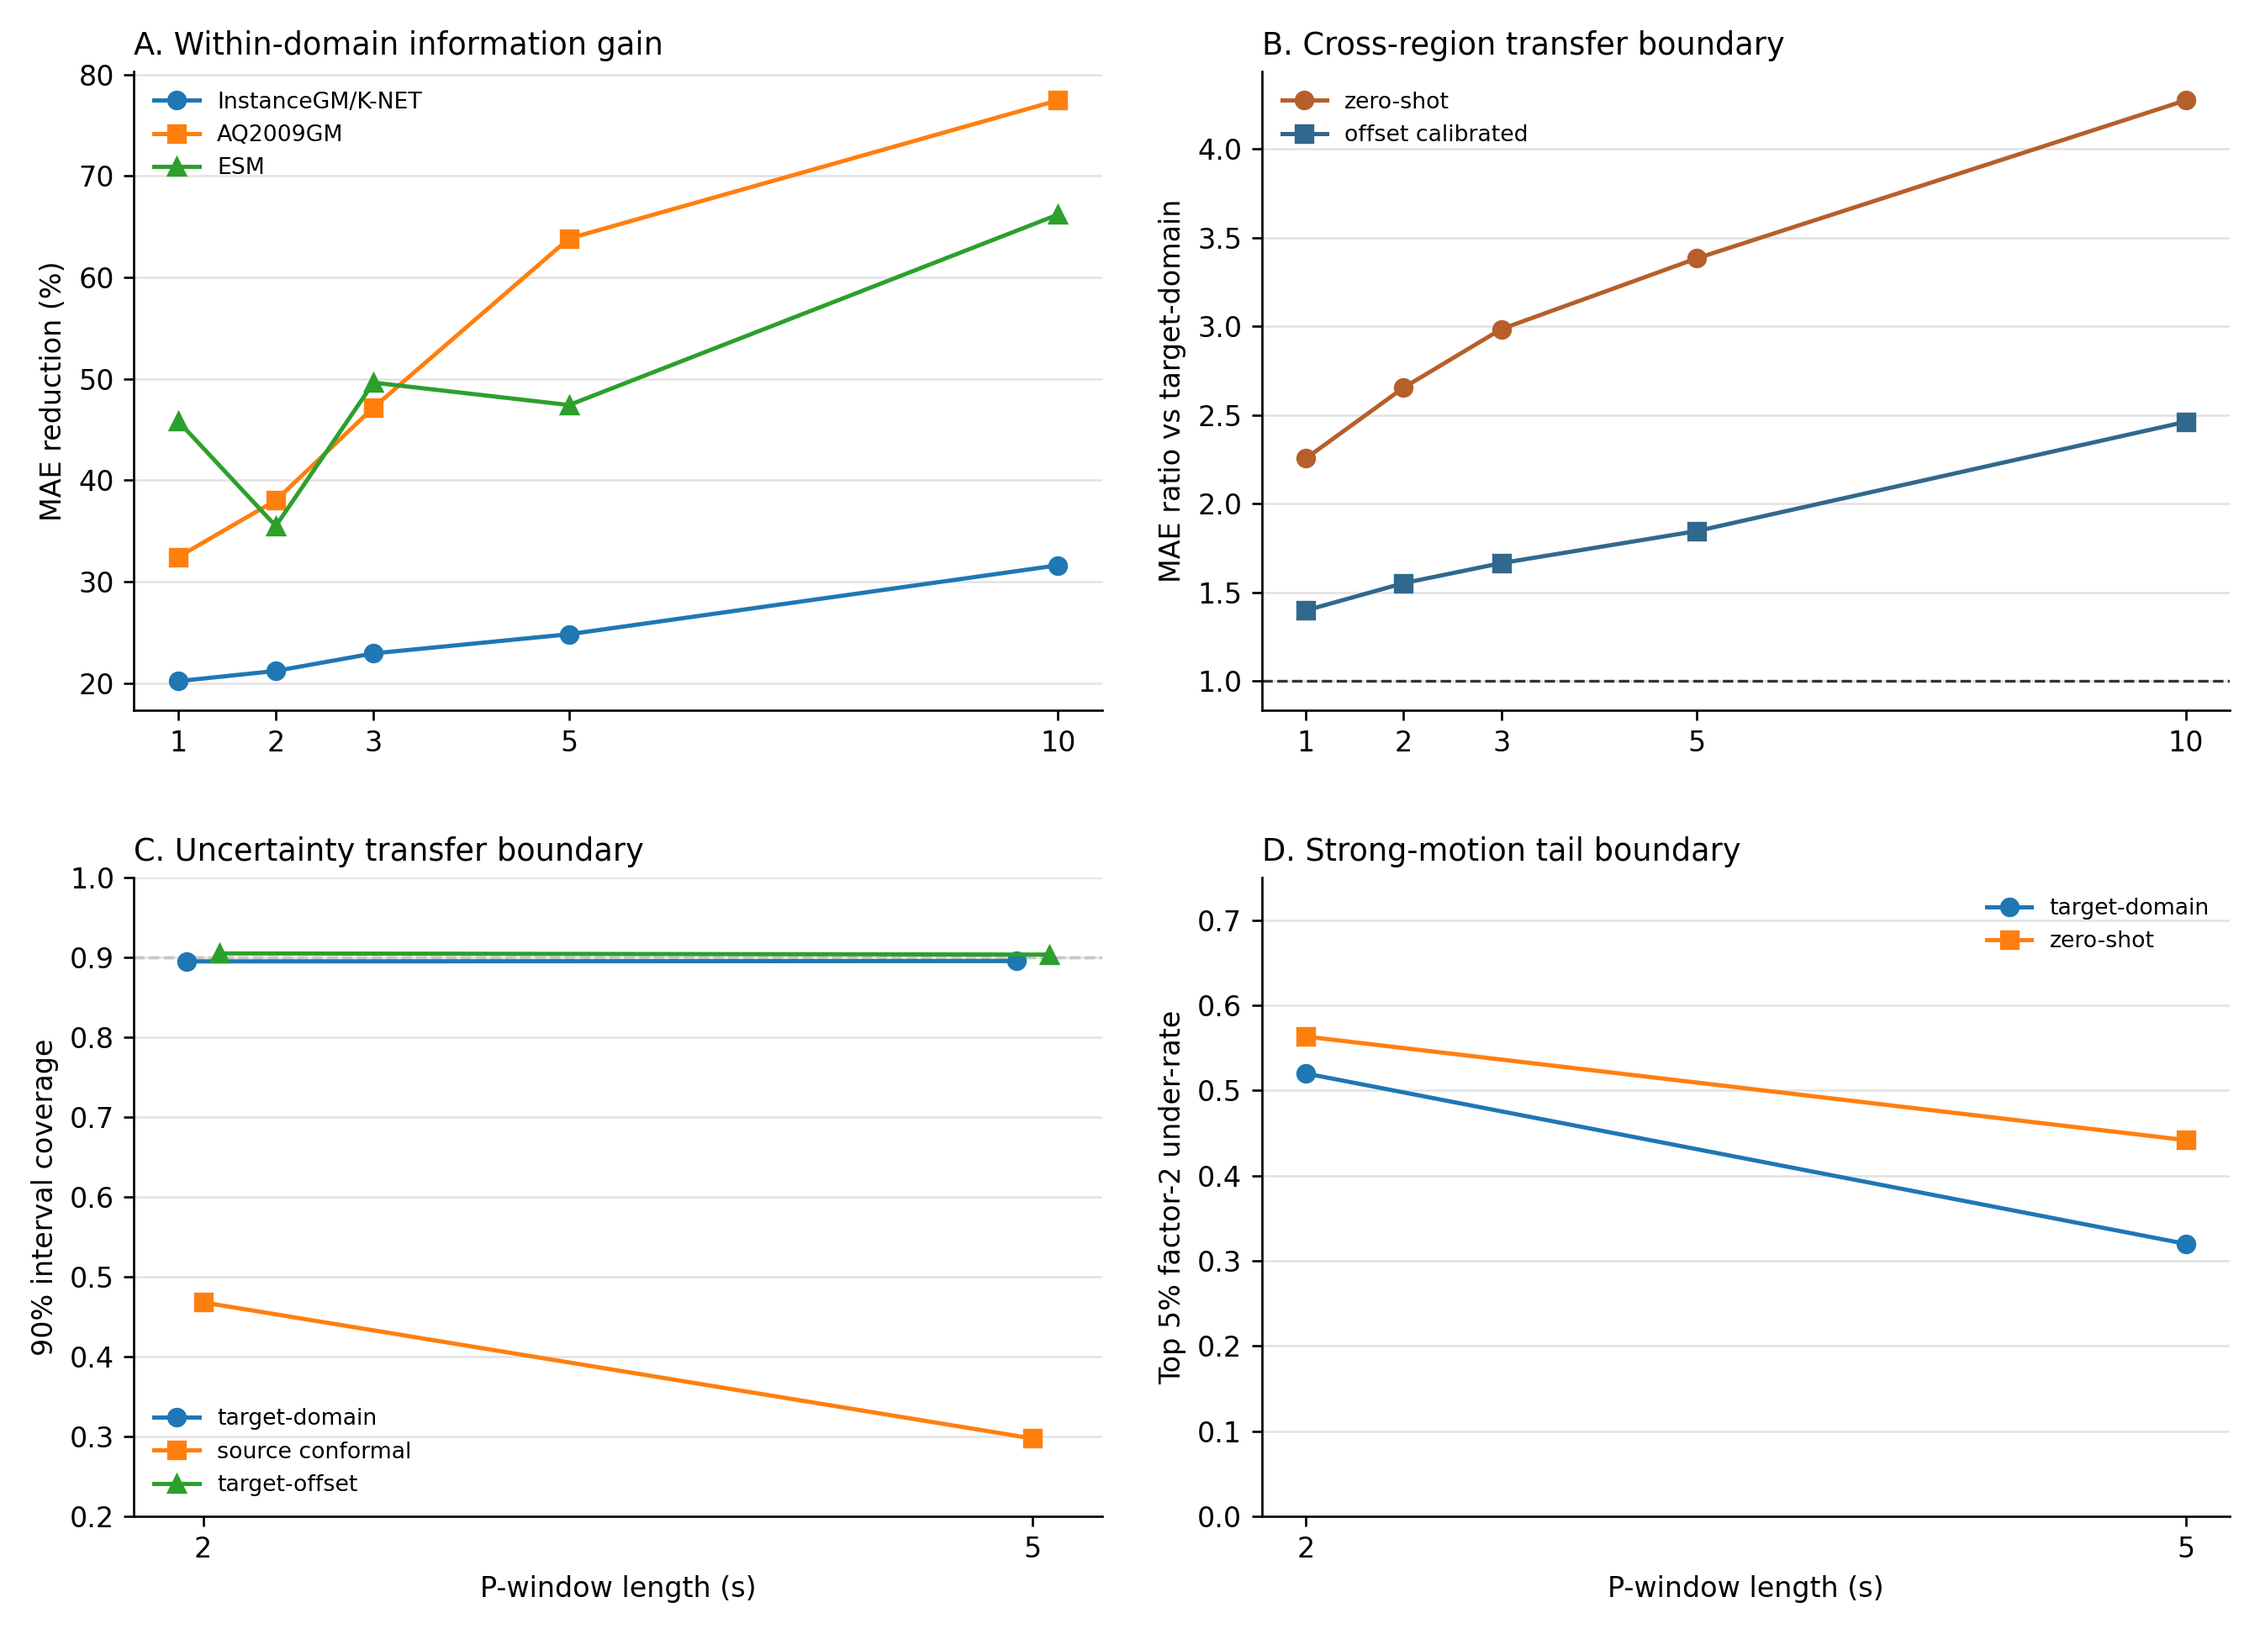
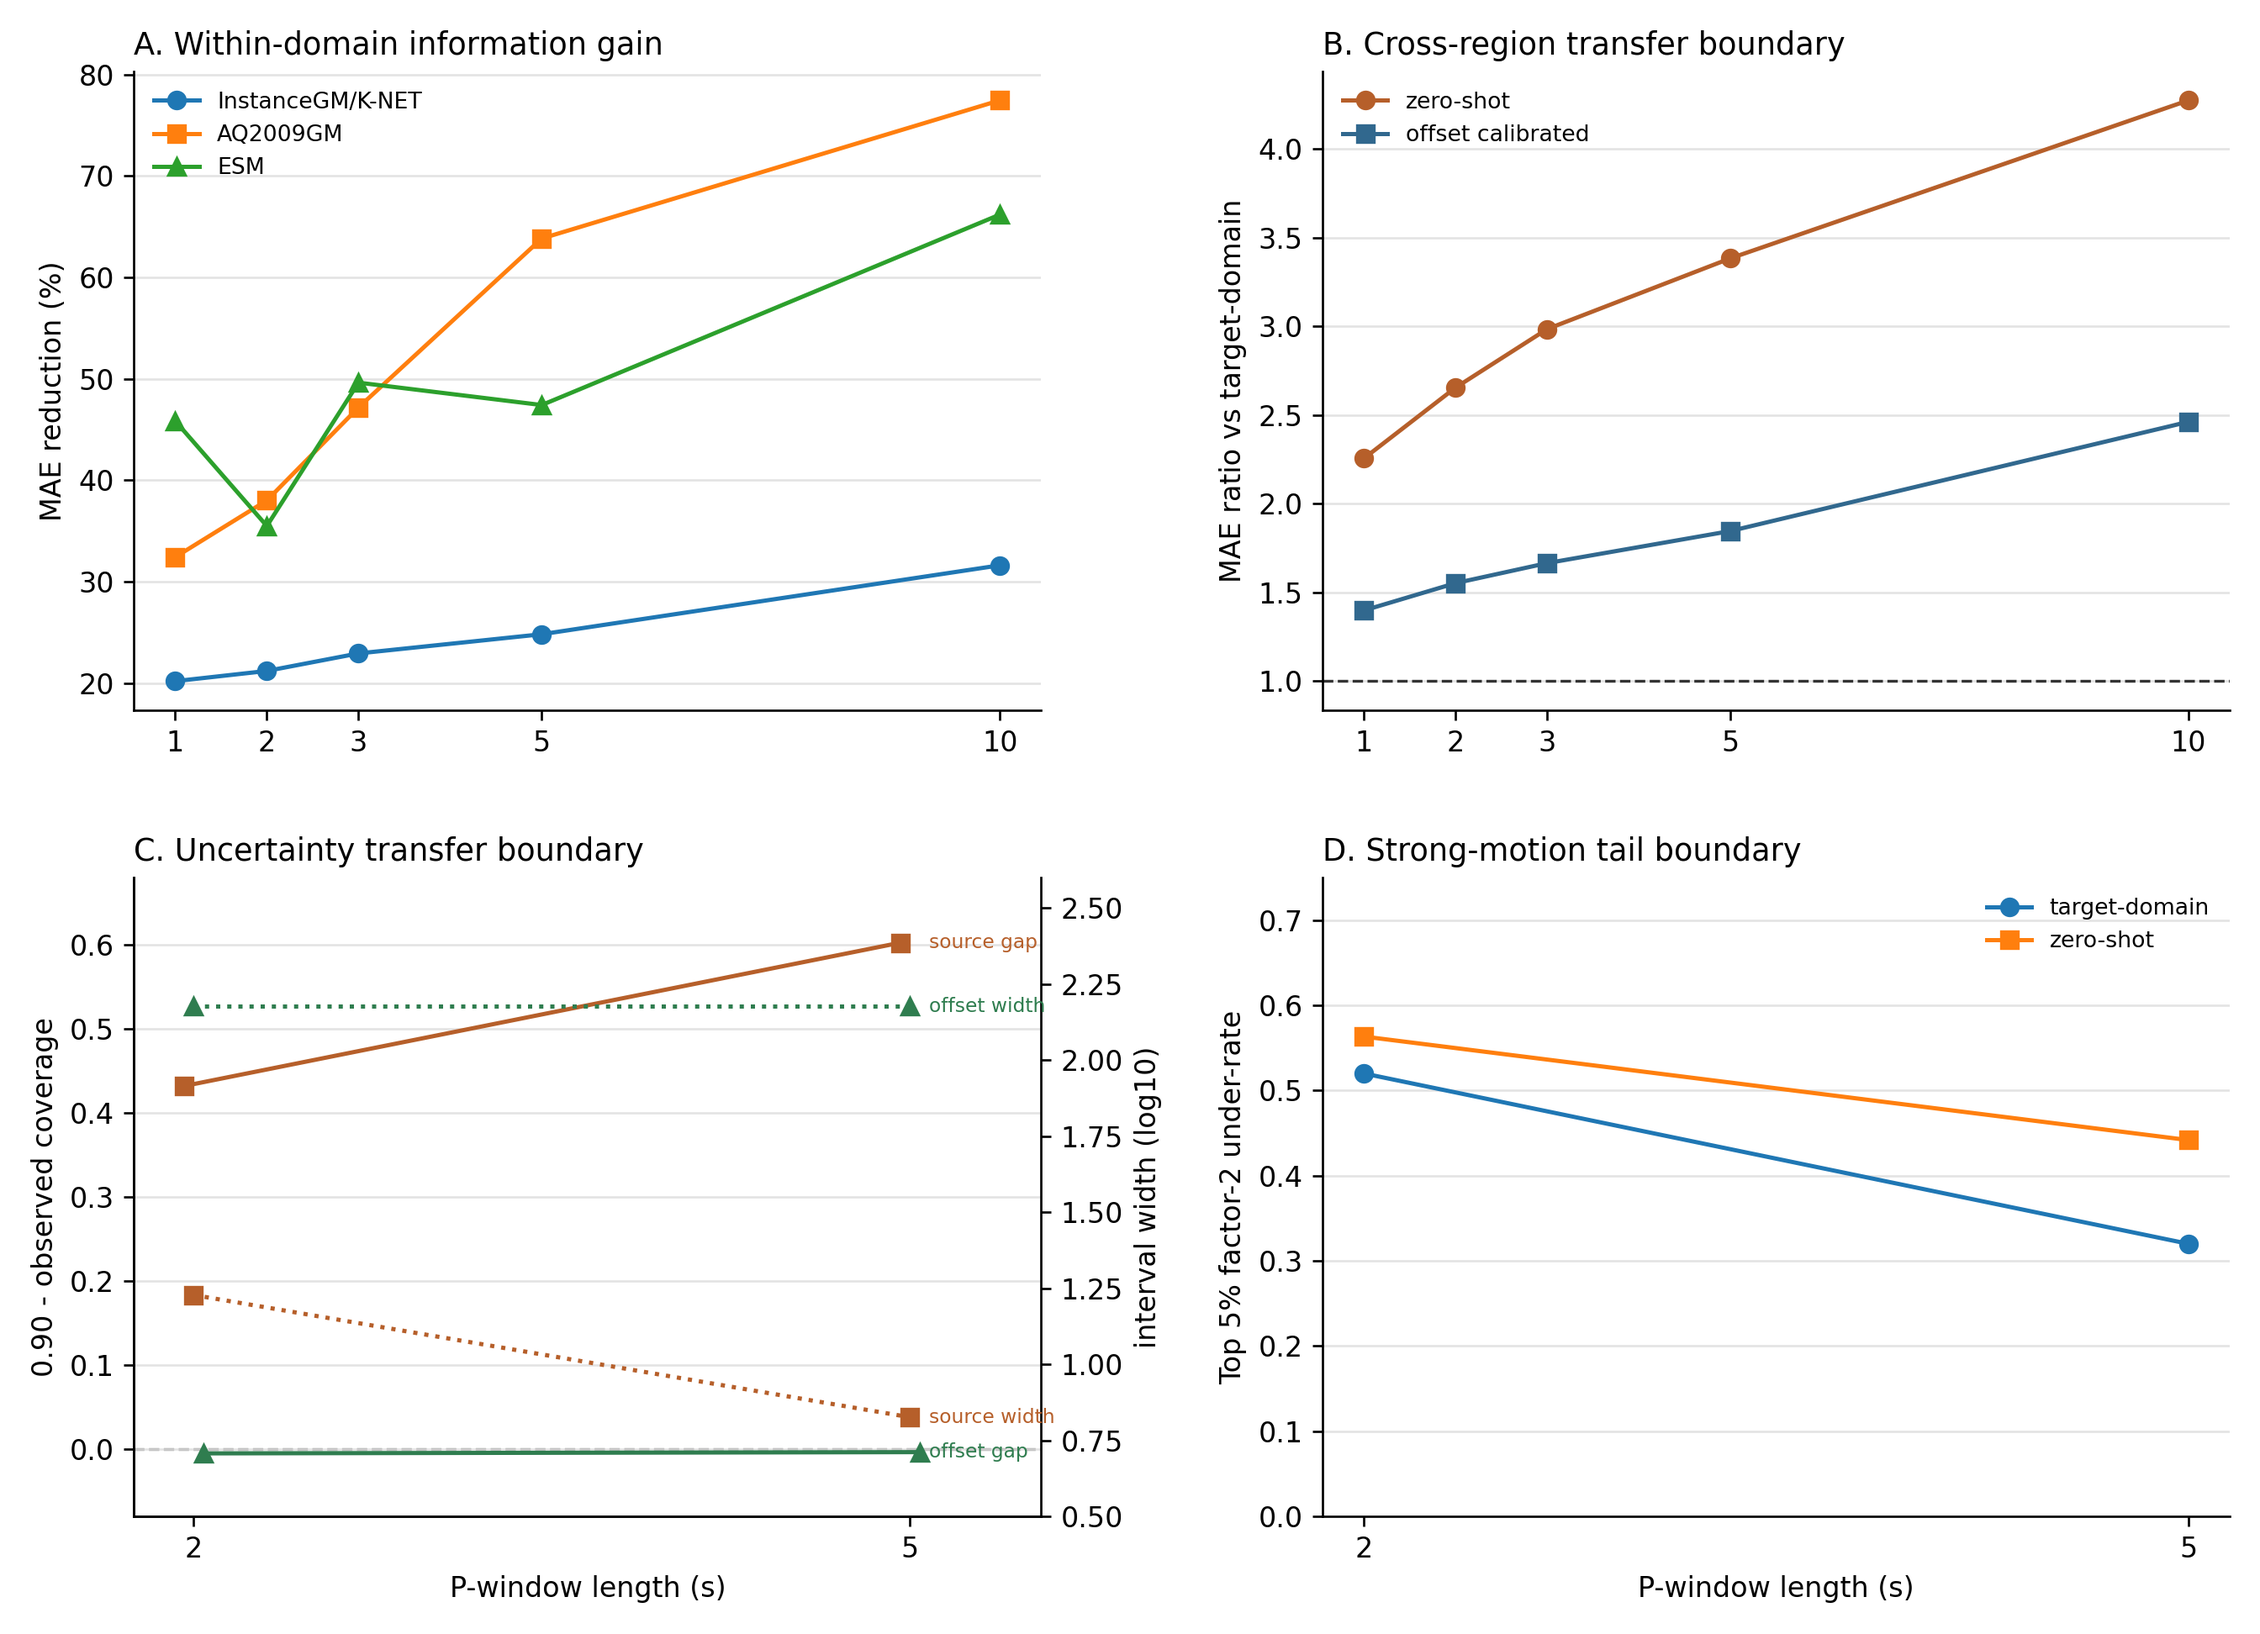
Clarify NC uncertainty boundary panel

diff --git a/work/scripts/build_nc_core_boundary_figure.py b/work/scripts/build_nc_core_boundary_figure.py
@@ -43,6 +43,11 @@ def main() -> None:
     assert table["zero_shot_transfer_ratio"].is_monotonic_increasing
     assert table["offset_transfer_ratio"].is_monotonic_increasing
     assert table.loc[table["window_s"].eq(5), "zero_shot_conformal_coverage"].iloc[0] < 0.4
+    assert table.loc[table["window_s"].eq(2), "zero_shot_coverage_gap_to_90"].iloc[0] > 0.4
+    assert table.loc[table["window_s"].eq(5), "zero_shot_coverage_gap_to_90"].iloc[0] > 0.5
+    assert table.loc[table["window_s"].eq(5), "target_offset_interval_width"].iloc[0] > table.loc[
+        table["window_s"].eq(5), "zero_shot_interval_width"
+    ].iloc[0]
     assert (
         table.loc[table["window_s"].eq(5), "target_domain_top5_under_factor2_rate"].iloc[0]
         < table.loc[table["window_s"].eq(2), "target_domain_top5_under_factor2_rate"].iloc[0]
@@ -110,7 +115,8 @@ def transfer_penalty() -> pd.DataFrame:
 
 def conformal_boundary() -> pd.DataFrame:
     df = pd.read_csv("work/nc_boundary_sensitivity/conformal_boundary.csv")
-    cov = df.groupby(["early_seconds", "mode"])["coverage90"].median().unstack()
+    grouped = df.groupby(["early_seconds", "mode"])
+    cov = grouped["coverage90"].median().unstack()
     cov = cov.rename(
         columns={
             "target_domain": "target_domain_conformal_coverage",
@@ -118,8 +124,19 @@ def conformal_boundary() -> pd.DataFrame:
             "target_offset_conformal": "target_offset_conformal_coverage",
         }
     )
-    cov.index = cov.index.astype(int)
-    return cov.reset_index(names="window_s")
+    width = grouped["interval_width_log10"].median().unstack()
+    width = width.rename(
+        columns={
+            "target_domain": "target_domain_interval_width",
+            "zero_shot_source_conformal": "zero_shot_interval_width",
+            "target_offset_conformal": "target_offset_interval_width",
+        }
+    )
+    out = cov.join(width)
+    for prefix in ["target_domain", "zero_shot", "target_offset"]:
+        out[f"{prefix}_coverage_gap_to_90"] = 0.9 - out[f"{prefix}_conformal_coverage"]
+    out.index = out.index.astype(int)
+    return out.reset_index(names="window_s")
 
 
 def tail_boundary() -> pd.DataFrame:
@@ -143,16 +160,16 @@ def write_summary(table: pd.DataFrame) -> None:
         "",
         "This file is generated from existing validated outputs. It does not add a new model run.",
         "",
-        "| Window | Main held-station gain % | AQ station gain % | ESM station gain vs median % | Zero-shot transfer ratio | Offset transfer ratio | Source conformal coverage | Target-offset coverage | Target-domain top5 under-rate |",
-        "|---:|---:|---:|---:|---:|---:|---:|---:|---:|",
+        "| Window | Main held-station gain % | AQ station gain % | ESM station gain vs median % | Zero-shot transfer ratio | Offset transfer ratio | Source coverage gap | Target-offset gap | Target-offset width | Target-domain top5 under-rate |",
+        "|---:|---:|---:|---:|---:|---:|---:|---:|---:|---:|",
     ]
     for row in table.itertuples(index=False):
         lines.append(
             f"| {row.window_s}s | {fmt(row.main_held_station_gain_pct, 1)} | "
             f"{fmt(row.aq_station_gain_pct, 1)} | {fmt(row.esm_station_gain_vs_median_pct, 1)} | "
             f"{fmt(row.zero_shot_transfer_ratio, 2)} | {fmt(row.offset_transfer_ratio, 2)} | "
-            f"{fmt(row.zero_shot_conformal_coverage, 3)} | {fmt(row.target_offset_conformal_coverage, 3)} | "
-            f"{fmt(row.target_domain_top5_under_factor2_rate, 3)} |"
+            f"{fmt(row.zero_shot_coverage_gap_to_90, 3)} | {fmt(row.target_offset_coverage_gap_to_90, 3)} | "
+            f"{fmt(row.target_offset_interval_width, 3)} | {fmt(row.target_domain_top5_under_factor2_rate, 3)} |"
         )
     lines.extend(
         [
@@ -160,7 +177,8 @@ def write_summary(table: pd.DataFrame) -> None:
             "Plain-language read:",
             "- Early-window information gain is consistently positive under held-station or held-station-like checks.",
             "- Cross-region transfer penalties grow from 1 s to 10 s, and offset calibration does not remove them.",
-            "- Source-domain conformal intervals under-cover target domains at 2 s and 5 s.",
+            "- Source-domain conformal intervals have large positive coverage gaps at 2 s and 5 s.",
+            "- Target-offset calibration restores near-zero coverage gaps but changes interval width.",
             "- The strongest-shaking tail improves from 2 s to 5 s, but the top-tail underprediction boundary remains visible.",
             "",
             "Files:",
@@ -192,14 +210,23 @@ def draw_figure(table: pd.DataFrame) -> None:
 
     sub = table[table["window_s"].isin([2, 5])]
     x = sub["window_s"].astype(float)
-    ax3.axhline(0.9, color="#333333", linestyle="--", linewidth=1, alpha=0.55, zorder=0)
-    ax3.plot(x - 0.06, sub["target_domain_conformal_coverage"], marker="o", label="target-domain", zorder=3)
-    ax3.plot(x, sub["zero_shot_conformal_coverage"], marker="s", label="source conformal", zorder=3)
-    ax3.plot(x + 0.06, sub["target_offset_conformal_coverage"], marker="^", label="target-offset", zorder=3)
-    ax3.set_ylim(0.2, 1.0)
-    ax3.set_xlim(1.75, 5.25)
-    style_axis(ax3, "C. Uncertainty transfer boundary", "P-window length (s)", "90% interval coverage")
-    ax3.legend(frameon=False, fontsize=8)
+    ax3.axhline(0.0, color="#333333", linestyle="--", linewidth=1, alpha=0.55, zorder=0)
+    ax3.plot(x - 0.04, sub["zero_shot_coverage_gap_to_90"], marker="s", color="#b65f2a", label="source gap", zorder=3)
+    ax3.plot(x + 0.04, sub["target_offset_coverage_gap_to_90"], marker="^", color="#2f7d4f", label="target-offset gap", zorder=3)
+    ax3.set_ylim(-0.08, 0.68)
+    ax3.set_xlim(1.75, 5.55)
+    style_axis(ax3, "C. Uncertainty transfer boundary", "P-window length (s)", "0.90 - observed coverage")
+    ax3b = ax3.twinx()
+    ax3b.plot(x, sub["zero_shot_interval_width"], marker="s", color="#b65f2a", linestyle=":", label="source width")
+    ax3b.plot(x, sub["target_offset_interval_width"], marker="^", color="#2f7d4f", linestyle=":", label="target-offset width")
+    ax3b.set_ylabel("interval width (log10)")
+    ax3b.set_ylim(0.5, 2.6)
+    ax3b.spines["top"].set_visible(False)
+    end = sub[sub["window_s"].eq(5)].iloc[0]
+    ax3.text(5.08, end["zero_shot_coverage_gap_to_90"], "source gap", color="#b65f2a", va="center", fontsize=7)
+    ax3.text(5.08, end["target_offset_coverage_gap_to_90"], "offset gap", color="#2f7d4f", va="center", fontsize=7)
+    ax3b.text(5.08, end["zero_shot_interval_width"], "source width", color="#b65f2a", va="center", fontsize=7)
+    ax3b.text(5.08, end["target_offset_interval_width"], "offset width", color="#2f7d4f", va="center", fontsize=7)
 
     ax4.plot(sub["window_s"], sub["target_domain_top5_under_factor2_rate"], marker="o", label="target-domain")
     ax4.plot(sub["window_s"], sub["zero_shot_top5_under_factor2_rate"], marker="s", label="zero-shot")

diff --git a/work/scripts/verify_nc_evidence_package.py b/work/scripts/verify_nc_evidence_package.py
@@ -545,6 +545,17 @@ def main() -> None:
     check(core["offset_transfer_ratio"].is_monotonic_increasing, "NC core boundary offset transfer penalty increases with window length", rows)
     core_by_window = core.set_index("window_s")
     check(core_by_window.loc[5, "zero_shot_conformal_coverage"] < core_by_window.loc[2, "zero_shot_conformal_coverage"], "NC core boundary source conformal coverage worsens from 2 s to 5 s", rows)
+    for col in [
+        "zero_shot_coverage_gap_to_90",
+        "target_offset_coverage_gap_to_90",
+        "zero_shot_interval_width",
+        "target_offset_interval_width",
+    ]:
+        check(col in core.columns, f"NC core boundary table includes {col}", rows)
+    check(core_by_window.loc[2, "zero_shot_coverage_gap_to_90"] > 0.4, "NC core boundary source coverage gap is large at 2 s", rows)
+    check(core_by_window.loc[5, "zero_shot_coverage_gap_to_90"] > 0.5, "NC core boundary source coverage gap is large at 5 s", rows)
+    check(core_by_window.loc[[2, 5], "target_offset_coverage_gap_to_90"].abs().max() < 0.01, "NC core boundary target-offset coverage gap is near zero", rows)
+    check(core_by_window.loc[[2, 5], ["zero_shot_interval_width", "target_offset_interval_width"]].gt(0).all().all(), "NC core boundary interval widths are positive", rows)
     check(core_by_window.loc[5, "target_domain_top5_under_factor2_rate"] < core_by_window.loc[2, "target_domain_top5_under_factor2_rate"], "NC core boundary target-domain top-tail underprediction improves from 2 s to 5 s", rows)
 
     formal_methods = Path("outputs/nc_methods_formal_draft.md")

diff --git a/outputs/nc_core_predictability_boundary_summary.md b/outputs/nc_core_predictability_boundary_summary.md
@@ -2,18 +2,19 @@
 
 This file is generated from existing validated outputs. It does not add a new model run.
 
-| Window | Main held-station gain % | AQ station gain % | ESM station gain vs median % | Zero-shot transfer ratio | Offset transfer ratio | Source conformal coverage | Target-offset coverage | Target-domain top5 under-rate |
-|---:|---:|---:|---:|---:|---:|---:|---:|---:|
-| 1s | 20.2 | 32.4 | 45.9 | 2.25 | 1.40 | NA | NA | NA |
-| 2s | 21.2 | 38.0 | 35.5 | 2.65 | 1.55 | 0.468 | 0.905 | 0.520 |
-| 3s | 22.9 | 47.2 | 49.6 | 2.98 | 1.67 | NA | NA | NA |
-| 5s | 24.8 | 63.8 | 47.4 | 3.38 | 1.85 | 0.298 | 0.903 | 0.320 |
-| 10s | 31.6 | 77.5 | 66.2 | 4.27 | 2.46 | NA | NA | NA |
+| Window | Main held-station gain % | AQ station gain % | ESM station gain vs median % | Zero-shot transfer ratio | Offset transfer ratio | Source coverage gap | Target-offset gap | Target-offset width | Target-domain top5 under-rate |
+|---:|---:|---:|---:|---:|---:|---:|---:|---:|---:|
+| 1s | 20.2 | 32.4 | 45.9 | 2.25 | 1.40 | NA | NA | NA | NA |
+| 2s | 21.2 | 38.0 | 35.5 | 2.65 | 1.55 | 0.432 | -0.005 | 2.177 | 0.520 |
+| 3s | 22.9 | 47.2 | 49.6 | 2.98 | 1.67 | NA | NA | NA | NA |
+| 5s | 24.8 | 63.8 | 47.4 | 3.38 | 1.85 | 0.602 | -0.003 | 2.177 | 0.320 |
+| 10s | 31.6 | 77.5 | 66.2 | 4.27 | 2.46 | NA | NA | NA | NA |
 
 Plain-language read:
 - Early-window information gain is consistently positive under held-station or held-station-like checks.
 - Cross-region transfer penalties grow from 1 s to 10 s, and offset calibration does not remove them.
-- Source-domain conformal intervals under-cover target domains at 2 s and 5 s.
+- Source-domain conformal intervals have large positive coverage gaps at 2 s and 5 s.
+- Target-offset calibration restores near-zero coverage gaps but changes interval width.
 - The strongest-shaking tail improves from 2 s to 5 s, but the top-tail underprediction boundary remains visible.
 
 Files:

diff --git a/outputs/nc_evidence_verification_report.md b/outputs/nc_evidence_verification_report.md
@@ -313,6 +313,14 @@ This report verifies generated artifacts only. NC 60% remains an empirical targe
 - PASS: NC core boundary zero-shot transfer penalty increases with window length
 - PASS: NC core boundary offset transfer penalty increases with window length
 - PASS: NC core boundary source conformal coverage worsens from 2 s to 5 s
+- PASS: NC core boundary table includes zero_shot_coverage_gap_to_90
+- PASS: NC core boundary table includes target_offset_coverage_gap_to_90
+- PASS: NC core boundary table includes zero_shot_interval_width
+- PASS: NC core boundary table includes target_offset_interval_width
+- PASS: NC core boundary source coverage gap is large at 2 s
+- PASS: NC core boundary source coverage gap is large at 5 s
+- PASS: NC core boundary target-offset coverage gap is near zero
+- PASS: NC core boundary interval widths are positive
 - PASS: NC core boundary target-domain top-tail underprediction improves from 2 s to 5 s
 - PASS: formal NC Methods draft exists
 - PASS: formal NC Methods draft covers: Data Sources
